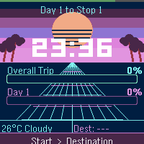
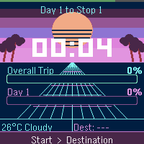
Fix beach umbrella orientation; add experimental auto-theme biome detection
- main.c: reverse hw_lut indexing in draw_umbrella() so dome is wide at
  bottom (correct arc shape) rather than wide at top (Y-shape bug)
- index.js: add computeBiomeTheme() mapping GPS lat/temp/WMO code to one
  of 7 theme indices; wire into fetchBothWeather GPS callback behind the
  new AutoTheme setting; pass raw WMO code through fetchWeatherAt callback
- config.js: add "Auto Theme (Experimental)" toggle above manual Theme
  selector in the Appearance section
- package.json: add AutoTheme to messageKeys so Clay can manage it
- Updated app icons from current screenshot

diff --git a/src/pkjs/index.js b/src/pkjs/index.js
@@ -33,6 +33,7 @@ function syncSettingsFromClay() {
         if (s['TempUnit']     !== undefined) localStorage.setItem('tempUnit',     '' + s['TempUnit']);
         if (s['ShowWeather']  !== undefined) localStorage.setItem('showWeather',  '' + s['ShowWeather']);
         if (s['Theme']        !== undefined) localStorage.setItem('theme',        '' + s['Theme']);
+        if (s['AutoTheme']    !== undefined) localStorage.setItem('autoTheme',    '' + s['AutoTheme']);
         console.log('syncSettingsFromClay: start=' + s['StartName'] + ' dest=' + s['DestName']);
     } catch(e) {
         console.log('syncSettingsFromClay error: ' + e);
@@ -328,23 +329,60 @@ function fetchWeatherAt(lat, lon, callback) {
               'latitude=' + lat + '&longitude=' + lon +
               '&current=temperature_2m,weather_code';
     xhrGet(url, function(response) {
-        if (!response) { callback(null, 0); return; }
+        if (!response) { callback(null, 0, -1); return; }
         try {
             var json = JSON.parse(response);
-            var temp = Math.round(json.current.temperature_2m);
-            var cond = weatherCodeToInt(json.current.weather_code);
-            callback(temp, cond);
+            var temp    = Math.round(json.current.temperature_2m);
+            var rawCode = json.current.weather_code;
+            var cond    = weatherCodeToInt(rawCode);
+            callback(temp, cond, rawCode);
         } catch(e) {
             console.log('Weather parse error: ' + e);
-            callback(null, 0);
+            callback(null, 0, -1);
         }
     });
+}
+
+// Maps GPS lat/lon + temperature + raw WMO weather code to a theme index (0-6).
+// City (4) is not detectable from weather data, so it never auto-selects.
+function computeBiomeTheme(lat, lon, tempC, wmoCode) {
+    var absLat  = Math.abs(lat);
+    var isSnow  = (wmoCode >= 70 && wmoCode <= 79) || (wmoCode >= 85 && wmoCode <= 86);
+    var isClear = (wmoCode >= 0 && wmoCode <= 3);
+
+    // Snow precipitation or freezing temps → Winter
+    if (isSnow || tempC <= -2) return 3;
+
+    // Cold + high latitude → still Winter (polar tundra)
+    if (tempC <= 5 && absLat >= 60) return 3;
+
+    // Hot + clear + subtropical dry belt → Desert
+    if (tempC >= 28 && isClear && absLat >= 8 && absLat <= 40) return 6;
+
+    // Cold + clear + mid-to-high latitude → Mountain
+    if (tempC <= 12 && isClear && absLat >= 38) return 2;
+
+    // Warm + tropical or coastal latitudes → Beach
+    if (tempC >= 24 && absLat < 40) return 1;
+
+    // Warm + clear + temperate → Plains
+    if (tempC >= 16 && isClear) return 5;
+
+    // Warm regardless of cloud cover → Beach
+    if (tempC >= 22) return 1;
+
+    // Cool + clear + lower-mid latitude → Mountain
+    if (isClear && absLat >= 30) return 2;
+
+    // Default fallback
+    return 0;  // Vaporwave
 }
 
 var s_curTemp = null, s_curCond = 0;
 var s_dstTemp = null, s_dstCond = 0;
 var s_curDone = false, s_dstDone = false;
 var s_detectedDay = null, s_detectedDist = null;
+var s_biomeTheme = null;  // non-null when auto-theme computed a result
 
 function trySendWeather() {
     if (!s_curDone || !s_dstDone) return;
@@ -356,9 +394,10 @@ function trySendWeather() {
         'COND_DEST':    s_dstCond
     };
 
-    // Piggyback auto-detected trip position into the same message
+    // Piggyback auto-detected trip position and biome theme into the same message
     if (s_detectedDay  !== null) dict['TripDay']         = s_detectedDay;
     if (s_detectedDist !== null) dict['CurrentDistance'] = s_detectedDist;
+    if (s_biomeTheme   !== null) dict['Theme']           = s_biomeTheme;
 
     console.log('Sending weather: cur=' + dict['TEMP_CURRENT'] +
                 ' dst=' + dict['TEMP_DEST'] +
@@ -373,6 +412,7 @@ function trySendWeather() {
 function fetchBothWeather() {
     s_curDone = false; s_dstDone = false;
     s_detectedDay = null; s_detectedDist = null;
+    s_biomeTheme = null;
 
     // Current location — GPS
     navigator.geolocation.getCurrentPosition(
@@ -386,8 +426,13 @@ function fetchBothWeather() {
                 s_detectedDist = detection.distance;
             }
 
-            fetchWeatherAt(lat, lon, function(temp, cond) {
+            fetchWeatherAt(lat, lon, function(temp, cond, rawCode) {
                 s_curTemp = temp; s_curCond = cond;
+                var autoTheme = localStorage.getItem('autoTheme');
+                if ((autoTheme === '1' || autoTheme === 'true') && temp !== null && rawCode >= 0) {
+                    s_biomeTheme = computeBiomeTheme(lat, lon, temp, rawCode);
+                    console.log('Auto-theme: tempC=' + temp + ' wmo=' + rawCode + ' → theme=' + s_biomeTheme);
+                }
                 s_curDone = true;
                 trySendWeather();
             });
@@ -455,6 +500,7 @@ Pebble.addEventListener('webviewclosed', function(e) {
         if (settings['TempUnit']     !== undefined) localStorage.setItem('tempUnit',     '' + settings['TempUnit']);
         if (settings['ShowWeather']  !== undefined) localStorage.setItem('showWeather',  '' + settings['ShowWeather']);
         if (settings['Theme']        !== undefined) localStorage.setItem('theme',        '' + settings['Theme']);
+        if (settings['AutoTheme']    !== undefined) localStorage.setItem('autoTheme',    '' + settings['AutoTheme']);
 
         console.log('Clay settings synced: start=' + settings['StartName'] + ' dest=' + settings['DestName']);
         calculateTripDistances();

diff --git a/src/pkjs/config.js b/src/pkjs/config.js
@@ -62,6 +62,13 @@ module.exports = [
     "items": [
       { "type": "heading", "defaultValue": "Appearance" },
       {
+        "type": "toggle",
+        "messageKey": "AutoTheme",
+        "label": "Auto Theme (Experimental)",
+        "description": "Uses your GPS location and current weather to pick a matching theme automatically. Overrides the manual Theme setting below.",
+        "defaultValue": false
+      },
+      {
         "type": "select",
         "messageKey": "Theme",
         "label": "Theme",

diff --git a/src/c/main.c b/src/c/main.c
@@ -437,7 +437,7 @@ static void draw_umbrella(GContext *ctx, int bx, int by, const ThemeColors *tc) 
     for (int dy = 0; dy <= R; dy++) {
         GColor stripe = ((dy / 4) % 2 == 0) ? GCA(tc->landmark1) : GCA(tc->landmark2);
         graphics_context_set_stroke_color(ctx, stripe);
-        int hw = hw_lut[dy];
+        int hw = hw_lut[R - dy];  // reversed: narrow peak at top, wide rim at bottom
         graphics_draw_line(ctx, GPoint(bx - hw, top_y + dy), GPoint(bx + hw, top_y + dy));
     }
     graphics_context_set_stroke_color(ctx, GCA(tc->landmark1));